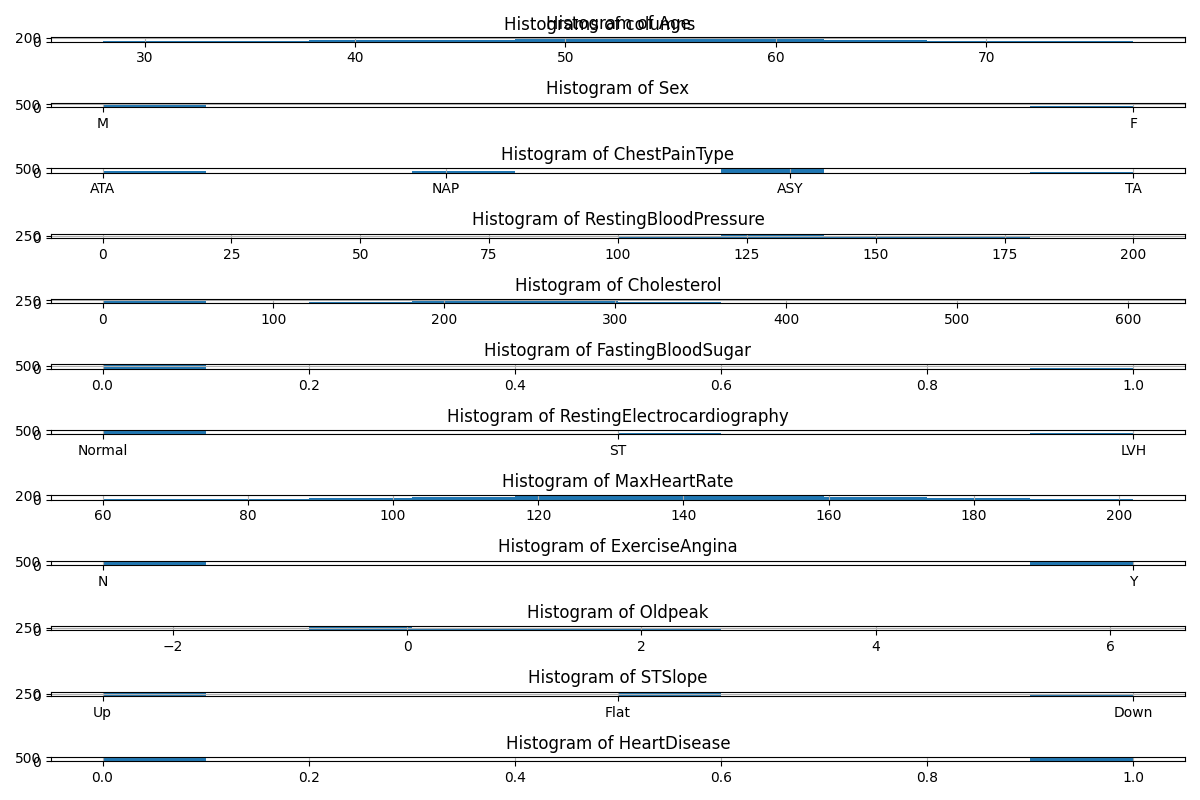
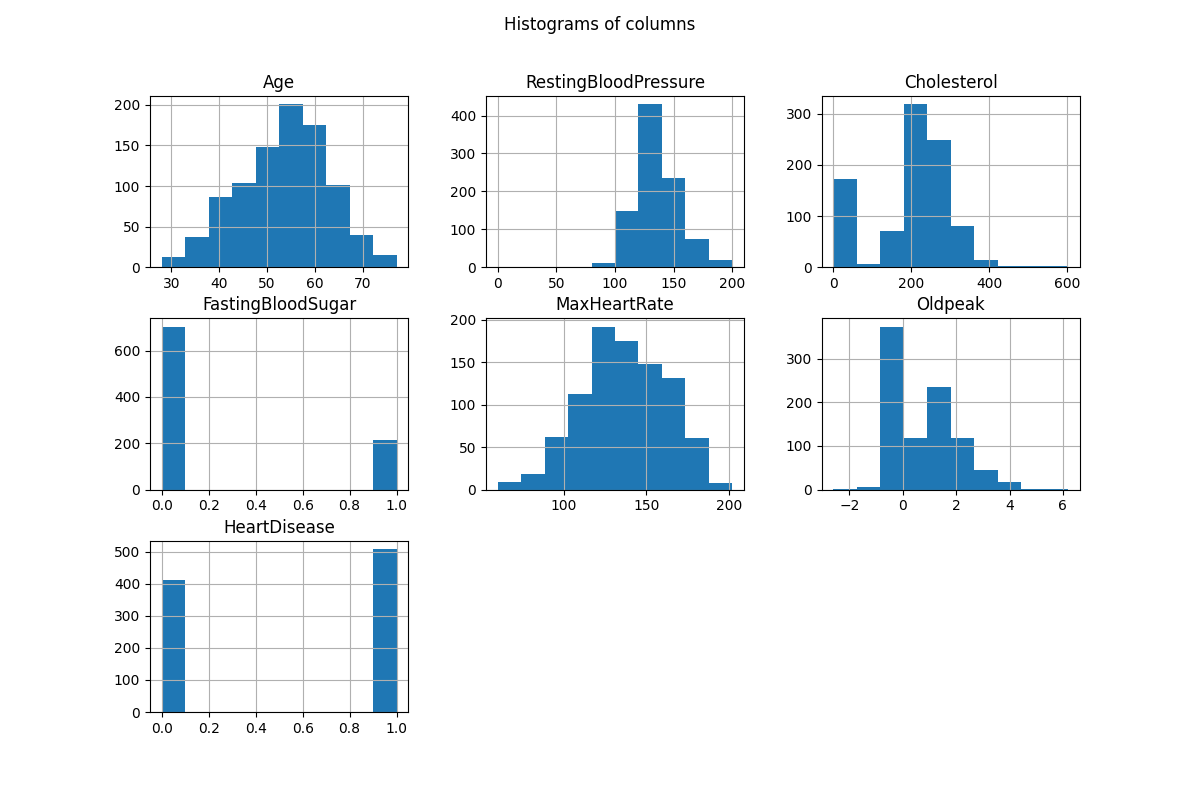
Fix histogram plotting

diff --git a/analyze.py b/analyze.py
@@ -54,14 +54,9 @@ def perform_analyze(dataset_name, label):
     # Create a multi-axes layout for the histograms
     fig, axes = plt.subplots(nrows=num_columns, ncols=1, figsize=(12, 8))
 
-    # Plot histograms for each column
-    for idx, column in enumerate(dataset.columns):
-        dataset[column].hist(ax=axes[idx])
-        axes[idx].set_title(f'Histogram of {column}')
-
-    # Adjust the layout to fit the plot inside the figure
-    plt.tight_layout()
-
+    # Histograms for all columns
+    plt.figure(figsize=(12, 8))
+    dataset.hist(ax=plt.gca())
     plt.suptitle('Histograms of columns')
     plt.savefig(os.path.join(output_directory, 'histograms.png'))
     plt.close()
